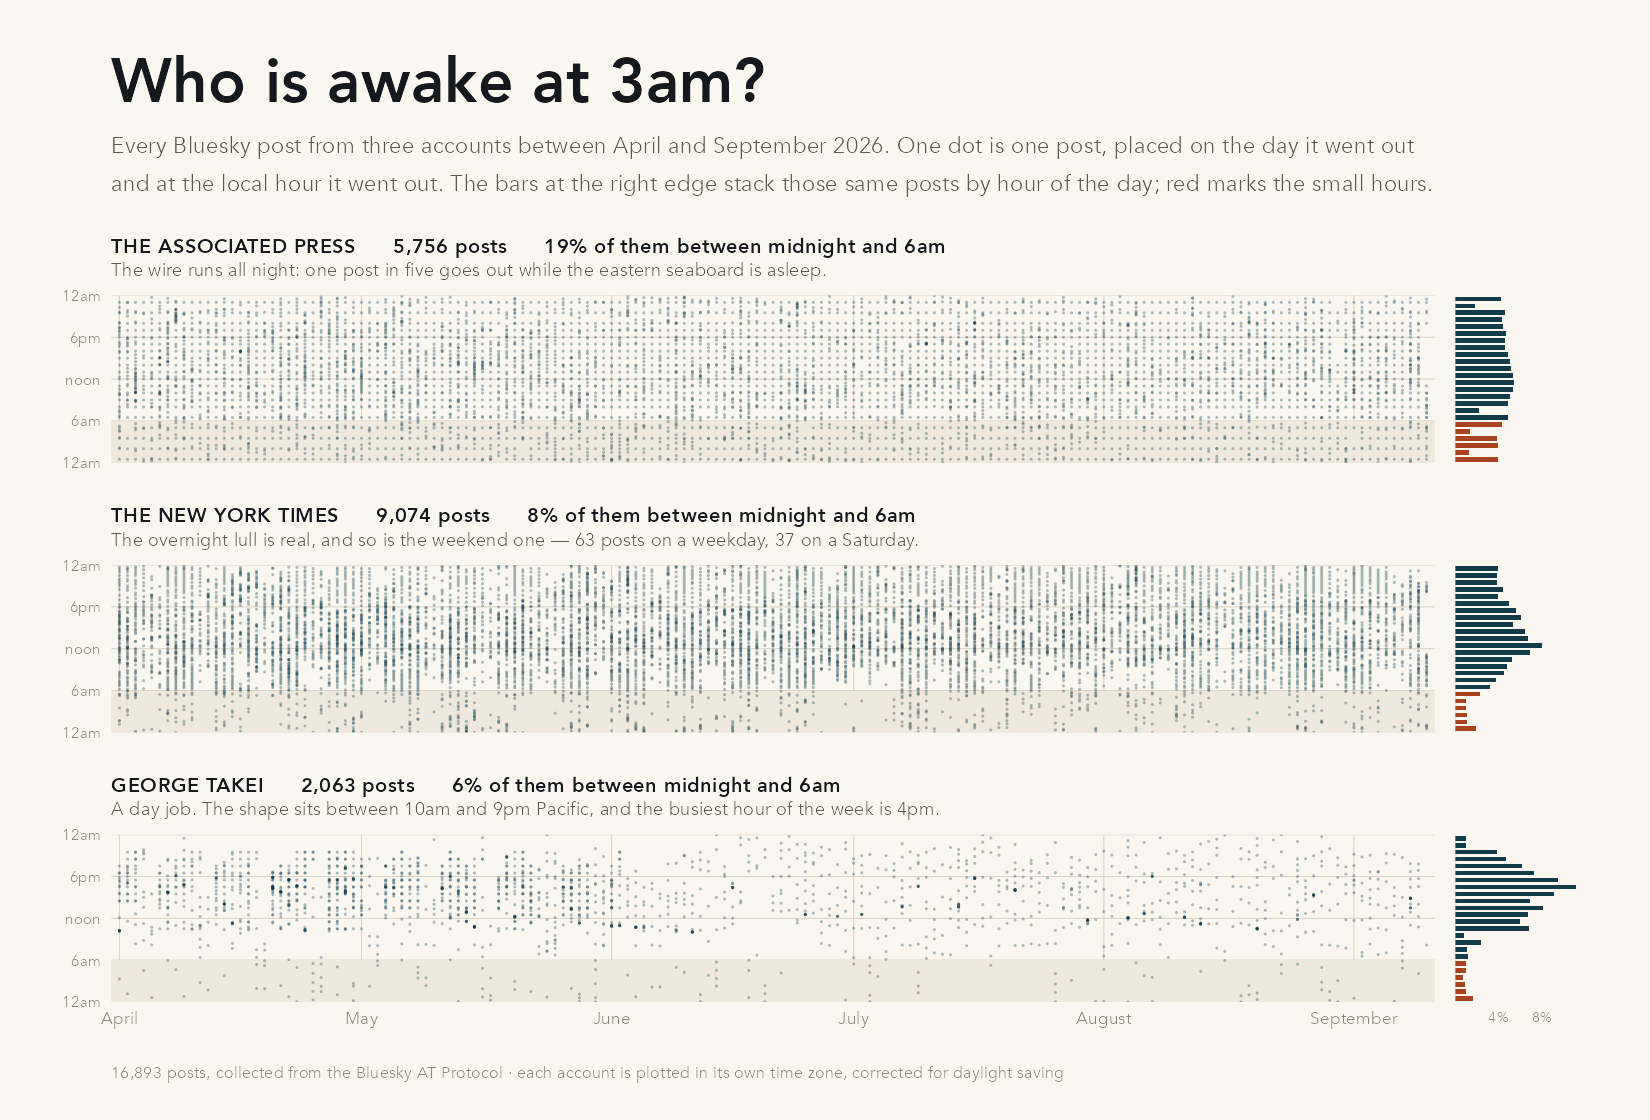
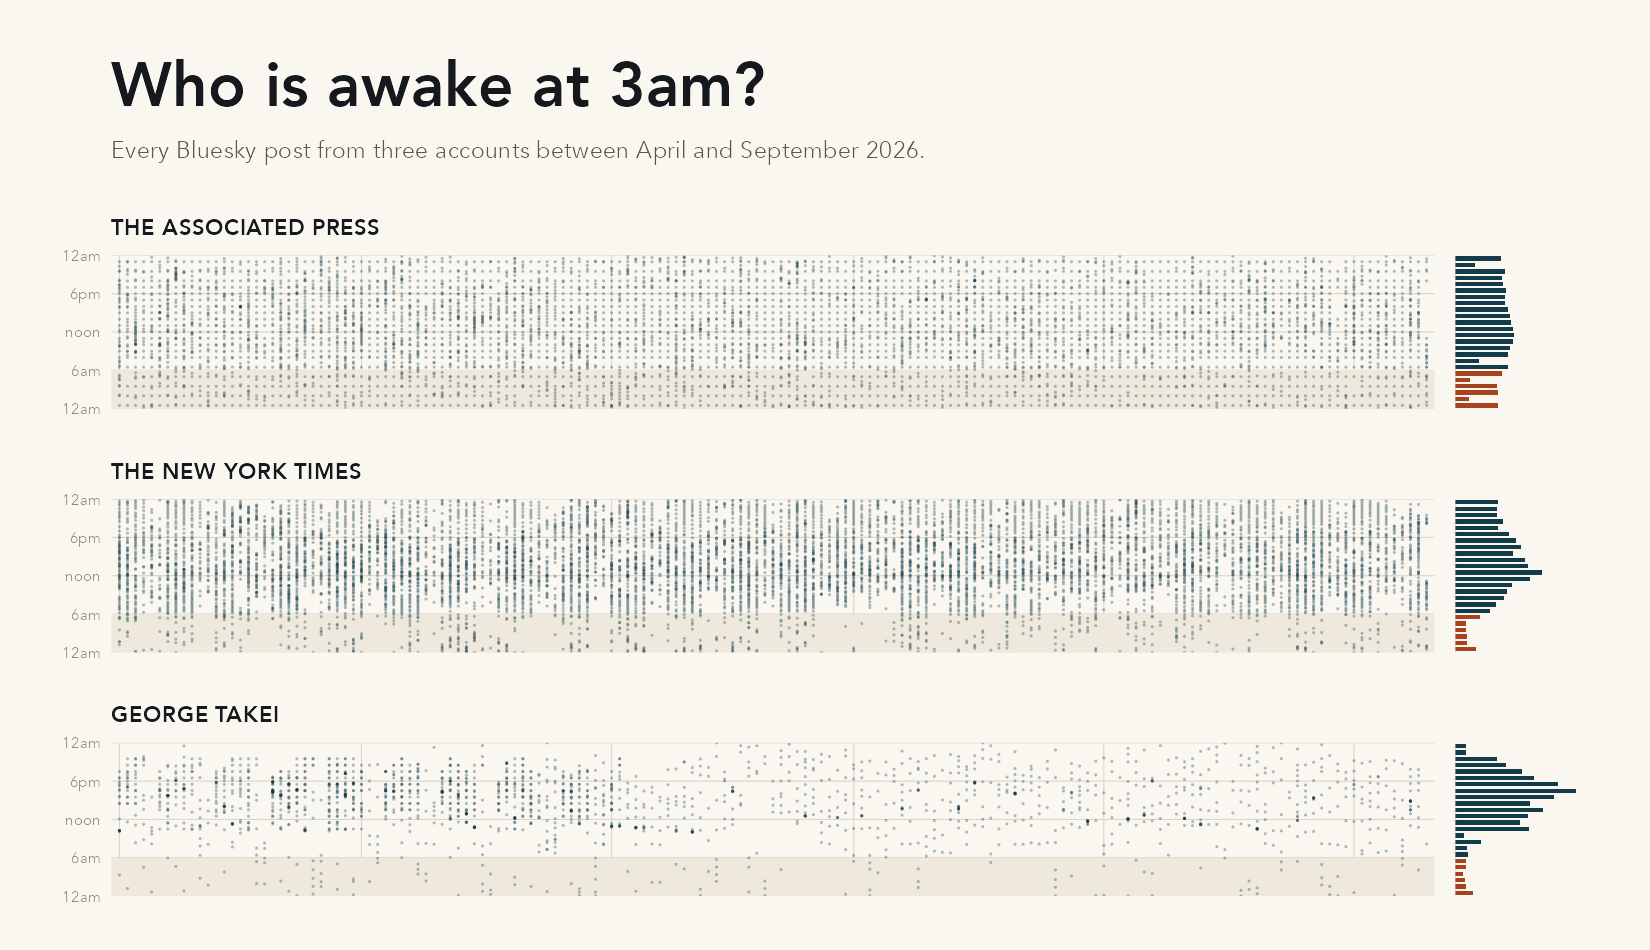
FS26: strip the chart down to the picture

diff --git a/_docs/content/Week_01/01a.html b/_docs/content/Week_01/01a.html
@@ -830,7 +830,7 @@ window.Quarto = {
 <h2 class="anchored" data-anchor-id="first-something-to-look-at">First, something to look at</h2>
 <p>In 2022 the <em>Wall Street Journal</em> worked out <a href="https://graphics.wsj.com/elon-musk-twitter-habit-analysis/">when Elon Musk tweets</a>. Not what he tweeted — <em>when</em>. It turns out he was posting heavily somewhere around 3am, which is a fact about a man running several companies that no press release was ever going to tell you.</p>
 <p>They did it with nothing but timestamps. Every post carries one, nobody thinks of it as data, and it quietly records when you were awake.</p>
-<p>We can’t redo their exact analysis — X now charges for the data. But the same trick works anywhere people post in public, so here is 2026, on Bluesky: two newsrooms and one person. Every dot is a single post.</p>
+<p>We can’t redo their exact analysis — X now charges for the data. But the same trick works anywhere people post in public, so here is 2026, on Bluesky: two newsrooms and one person. Every dot is a single post, placed at the hour it went out in its author’s own local time. The bars along the right edge are those same posts counted by hour of the day, with the small hours in red.</p>
 <div class="cell">
 <div class="cell-output-display">
 <div>
